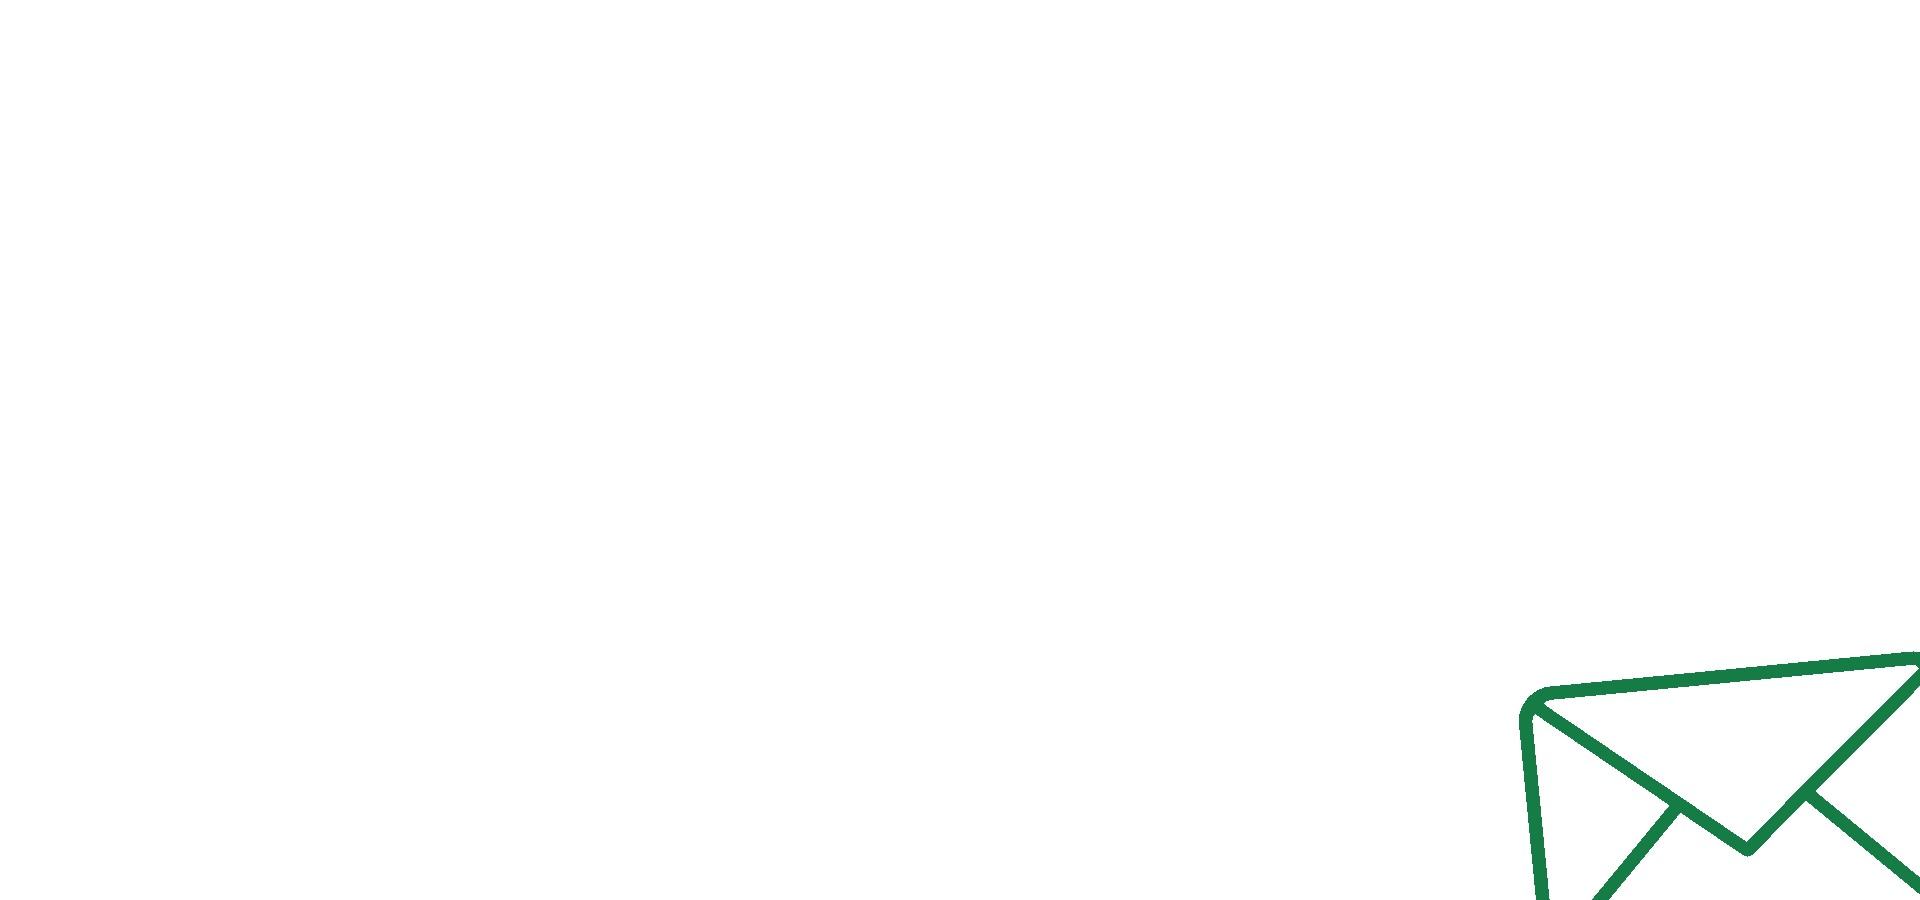
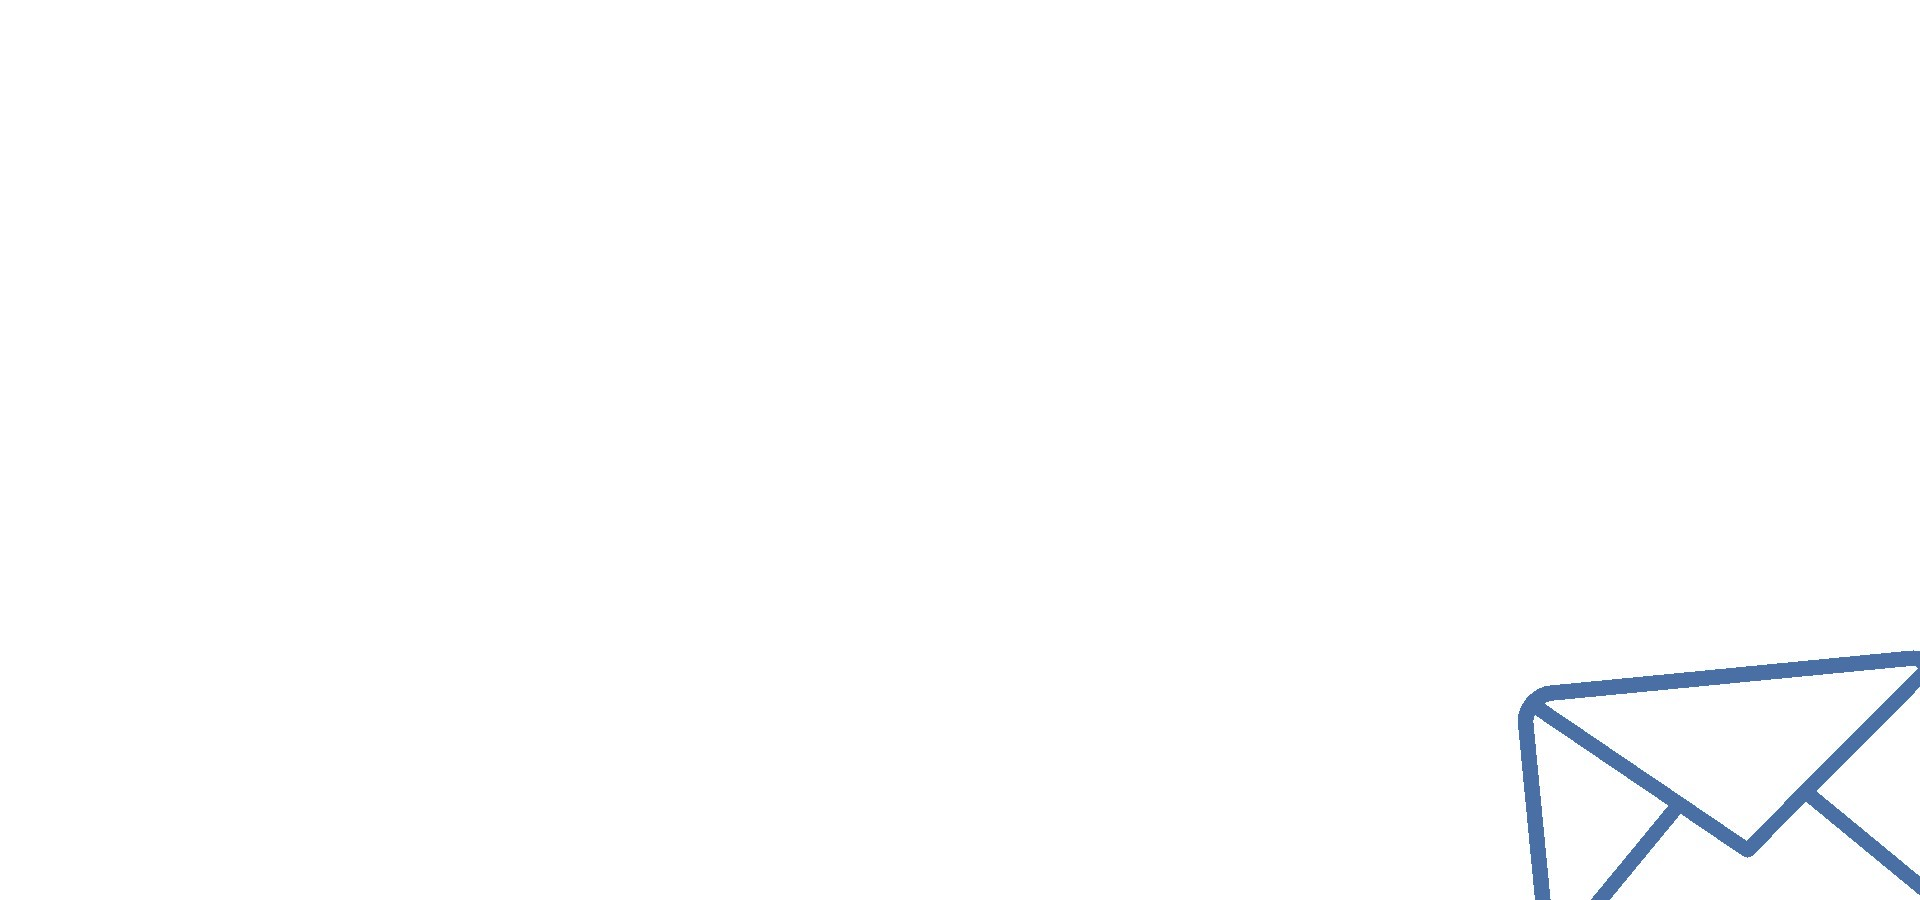
Correcciones y añadida imagen fondo azul

Changed region(s): [[0.7812, 0.7156, 1.0, 1.0], [0.9688, 0.9333, 1.0, 0.9956]]

diff --git a/index.html b/index.html
@@ -94,9 +94,8 @@
     <header id="header" class="header">
         <div class="header-content">
             <div class="container">
-                <p style="text-align: center;">
-                    Tanto la aplicación como la págnia web NO han sido realizadas por el Metropolitano de Granada, sino 
-                    por 3 estudiantes de manera altruista.
+                <p style="text-align: center; color: #9395a1">
+                    Aplicación y página web NO OFICIALES. Esta web es producto de un equipo independiente al Metropolitano de Granada.
                 </p>
                 <div class="row">
                     <div class="col-lg-6">

diff --git a/css/styles.css b/css/styles.css
@@ -764,7 +764,7 @@ input[type='checkbox'] {
 /*    04. Header     */
 /*********************/
 .header {
-	background: linear-gradient(to bottom right, rgba(72, 72, 212, 0), rgba(241, 104, 104, 0)), url('../images/fondo.png') center center no-repeat;
+	background: linear-gradient(to bottom right, rgba(72, 72, 212, 0), rgba(241, 104, 104, 0)), url('../images/fondo2.png') center center no-repeat;
 	background-size: cover;
 }
 
